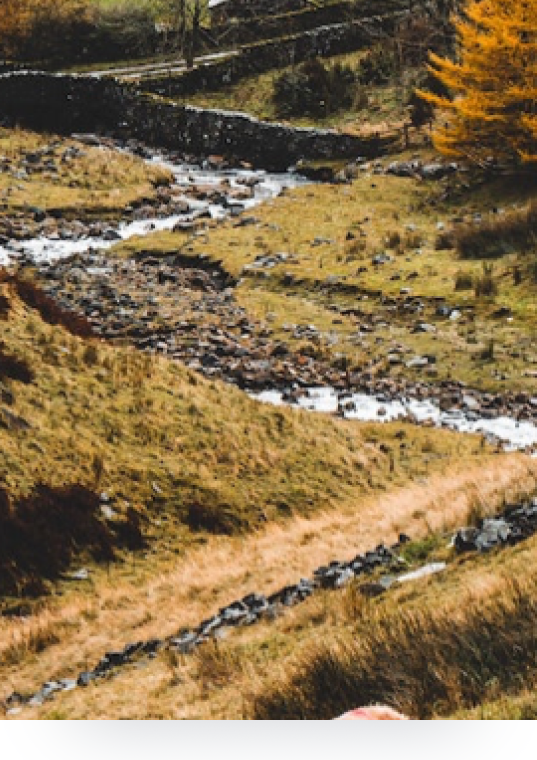
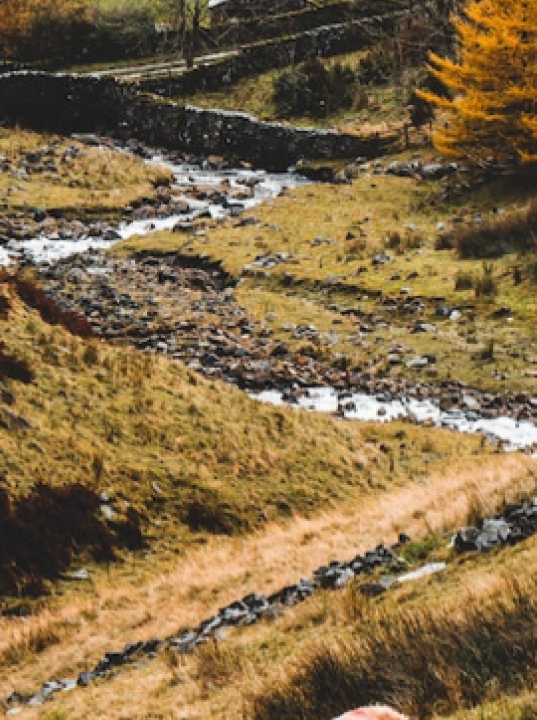
changes images with resize

diff --git a/src/view/Home.tsx b/src/view/Home.tsx
@@ -5,9 +5,14 @@ import BGFirst from '/assets/first.png';
 import BGFirstTablet from '/assets/first-tablet.png';
 import SecondImg from '/assets/second.png';
 import ThirdImg from '/assets/third.png';
+import TabletSecondImg from '/assets/tablet-second.png';
+import TabletThirdImg from '/assets/tablet-third.png';
 import FourthImg from '/assets/fourth.png';
-import Fifthmg from '/assets/fifth.png';
+import FifthImg from '/assets/fifth.png';  
 import SixthImg from '/assets/sixth.png';
+import MobileFourthImg from '/assets/mobile-one.jpg';
+import MobileFifthImg from '/assets/mobile-two.jpg';  
+import MobileSixthImg from '/assets/mobile-three.jpg'; 
 import Button from '../components/Button';
 import Footer from '../components/Footer';
 import Slider from '../components/Slider';
@@ -15,19 +20,30 @@ import Slider from '../components/Slider';
 function Home() {
   const navigate = useNavigate();
   const [bgImage, setBgImage] = useState(BGFirst);
+  const [fourthImage, setFourthImage] = useState(FourthImg);
+  const [fifthImage, setFifthImage] = useState(FifthImg);
+  const [sixthImage, setSixthImage] = useState(SixthImg);
 
   useEffect(() => {
     const handleResize = () => {
       const windowWidth = window.innerWidth;
-      if (windowWidth <= 1280) {
-        setBgImage(BGFirstTablet);
+  
+      if (windowWidth <= 420) {
+        setFourthImage(MobileFourthImg);
+        setFifthImage(MobileFifthImg);
+        setSixthImage(MobileSixthImg);
+      } else if (windowWidth <= 1280) {  
+        setBgImage(BGFirstTablet);    
       } else {
+        setFourthImage(FourthImg);
+        setFifthImage(FifthImg);
+        setSixthImage(SixthImg);
         setBgImage(BGFirst);
       }
     };
-
+  
     handleResize();
-
+  
     window.addEventListener('resize', handleResize);
     return () => {
       window.removeEventListener('resize', handleResize);
@@ -57,7 +73,7 @@ function Home() {
 
       <div className='flex justify-between items-center mt-[-70px] px-[165px] relative z-30
       max-xl:flex-col'>
-        <img src={SecondImg} alt="second image"  className='max-xl:mb-[60px]'/>
+        <img src={SecondImg} alt="second image" className='max-xl:mb-[60px]'/>
         <div className='flex flex-col gap-8 max-xl:items-center'>
           <div className='flex items-center gap-2'>
             <div className='w-2 h-2 rounded-[50%] border border-primary-Beaver'></div>
@@ -93,34 +109,29 @@ function Home() {
           </div>
           <div className='flex flex-col gap-6'>
             <div className='border-b flex items-center gap-14 max-w-[540px]'>
-              <img src={FourthImg} alt="fourth img" className='mb-6' />
+              <img src={fourthImage} alt="fourth img" className='mb-6' />
               <div className='max-xl:mb-6'>
                 <h5 className=' text-[20px] font-bold  text-[#ffffff] leading-[1.2] tracking-[-0.25px] '>Seared Salmon Fillet</h5>
                 <p className='text-[16px] font-normal  text-[#ffffff] leading-[1.63] '>Our locally sourced salmon served with a refreshing buckwheat summer salad.</p>
               </div>  
             </div>
             <div className='border-b flex items-center gap-14 max-w-[540px]'>
-              <img src={Fifthmg} alt="fifth image" className='mb-6' />
+              <img src={fifthImage} alt="fifth image" className='mb-6' />
               <div className='max-xl:mb-6'>
                 <h5 className='text-[20px] font-bold  text-[#ffffff] leading-[1.2] tracking-[-0.25px]'>Rosemary Filet Mignon</h5>
                 <p className='text-[16px] font-normal  text-[#ffffff] leading-[1.63] '>Our prime beef served to your taste with a delicious choice of seasonal sides.</p>
               </div>  
             </div>
-            <div className='border-b flex items-center gap-14 max-w-[540px]'>
-              <img src={SixthImg} alt="sixth image" className='mb-6'/>
-              <div className='max-xl:mb-6'>
+            <div className='flex items-center gap-14 max-w-[540px]'>
+              <img src={sixthImage} alt="sixth img" />
+              <div>
                 <h5 className='text-[20px] font-bold  text-[#ffffff] leading-[1.2] tracking-[-0.25px]'>Summer Fruit Chocolate Mousse</h5>
                 <p className='text-[16px] font-normal  text-[#ffffff] leading-[1.63] '>Creamy mousse combined with summer fruits and dark chocolate shavings.</p>
               </div>  
             </div>
           </div>
       </div>
-      
       <Slider handleBookingClick={handleBookingClick} />
-      <div className='flex justify-between px-[165px] pt-[99px] pb-[93px] bg-footerImg bg-center bg-cover'>
-        <h2 className='text-[48px] font-bold  text-[#ffffff] leading-[1] tracking-[-0.5px]'>Ready to make a reservation?</h2>
-        <Button dark={true} onClick={handleBookingClick}>BOOK A TABLE</Button>
-      </div>
       <Footer/>
     </div>
   );

diff --git a/src/components/Slider.tsx b/src/components/Slider.tsx
@@ -1,37 +1,61 @@
-import { useState } from 'react';
+import { useState, useEffect } from 'react';
 import SlideOne from '/assets/seventh.jpg';
 import SlideTwo from '/assets/slide2.png';
 import SlideThree from '/assets/slide3.png';
+import TabletSlideOne from '/assets/tablet-slideone.jpg';
+import TabletSlideTwo from '/assets/tablet-slide2.png';
+import TabletSlideThree from '/assets/tablet-slide3.png';
 import Button from "./Button";
 
-const slides = [
+const desktopSlides = [
   { src: SlideOne, alt: 'Family Gathering' },
   { src: SlideTwo, alt: 'Special Events' },
   { src: SlideThree, alt: 'Social Events' },
 ];
 
-interface SliderProps{
+const tabletSlides = [
+  { src: TabletSlideOne, alt: 'Family Gathering' },
+  { src: TabletSlideTwo, alt: 'Special Events' },
+  { src: TabletSlideThree, alt: 'Social Events' },
+];
+
+interface SliderProps {
   handleBookingClick: () => void;
 }
 
-function Slider({handleBookingClick}:SliderProps) {
+function Slider({ handleBookingClick }: SliderProps) {
   const [activeSlide, setActiveSlide] = useState(0);
+  const [isTabletView, setIsTabletView] = useState(window.innerWidth < 1280);
 
-  const handleSlideChange = (index:number) => {
+  useEffect(() => {
+    const handleResize = () => {
+      setIsTabletView(window.innerWidth < 1280);
+    };
+
+    window.addEventListener('resize', handleResize);
+
+    return () => {
+      window.removeEventListener('resize', handleResize);
+    };
+  }, []);
+
+  const currentSlides = isTabletView ? tabletSlides : desktopSlides;
+
+  const handleSlideChange = (index: number) => {
     setActiveSlide(index);
   };
 
   return (
     <div className="py-[160px] px-[165px] flex justify-between items-center max-xl:flex-col max-xl:px-0">
       <img
-        src={slides[activeSlide].src}
-        alt={slides[activeSlide].alt}
+        src={currentSlides[activeSlide].src}
+        alt={currentSlides[activeSlide].alt}
         className="max-w-[540px] max-xl:max-w-[573px] "
       />
       <div className="max-w-[445px] max-xl:max-w-[680px] max-xl:flex max-xl:flex-col">
         <div className="mb-20 max-xl:order-2">
           <h3 className="max-w-[445px] text-[48px] font-bold mb-5 text-secondary-EbonyClay leading-[1] tracking-[-0.5px]">
-            {slides[activeSlide].alt}
+            {currentSlides[activeSlide].alt}
           </h3>
           <p className="max-w-[445px] text-[20px] font-normal mb-[60px] text-secondary-EbonyClay leading-[1.5]">
             {activeSlide === 0
@@ -43,7 +67,7 @@ function Slider({handleBookingClick}:SliderProps) {
           <Button dark={false} onClick={handleBookingClick}>BOOK A TABLE</Button>
         </div>
 
-        <div className="flex flex-col items-start gap-3 max-xl:order-1 max-xl:flex-row whitespace-nowrap  max-xl:gap-12">
+        <div className="flex flex-col items-start gap-3 max-xl:order-1 max-xl:flex-row whitespace-nowrap max-xl:gap-12">
           <button
             className={`text-[#4c4c4c] text-[17px] font-semibold leading-[1.65] tracking-[2.5px] ${
               activeSlide === 0 ? '' : 'opacity-50'
